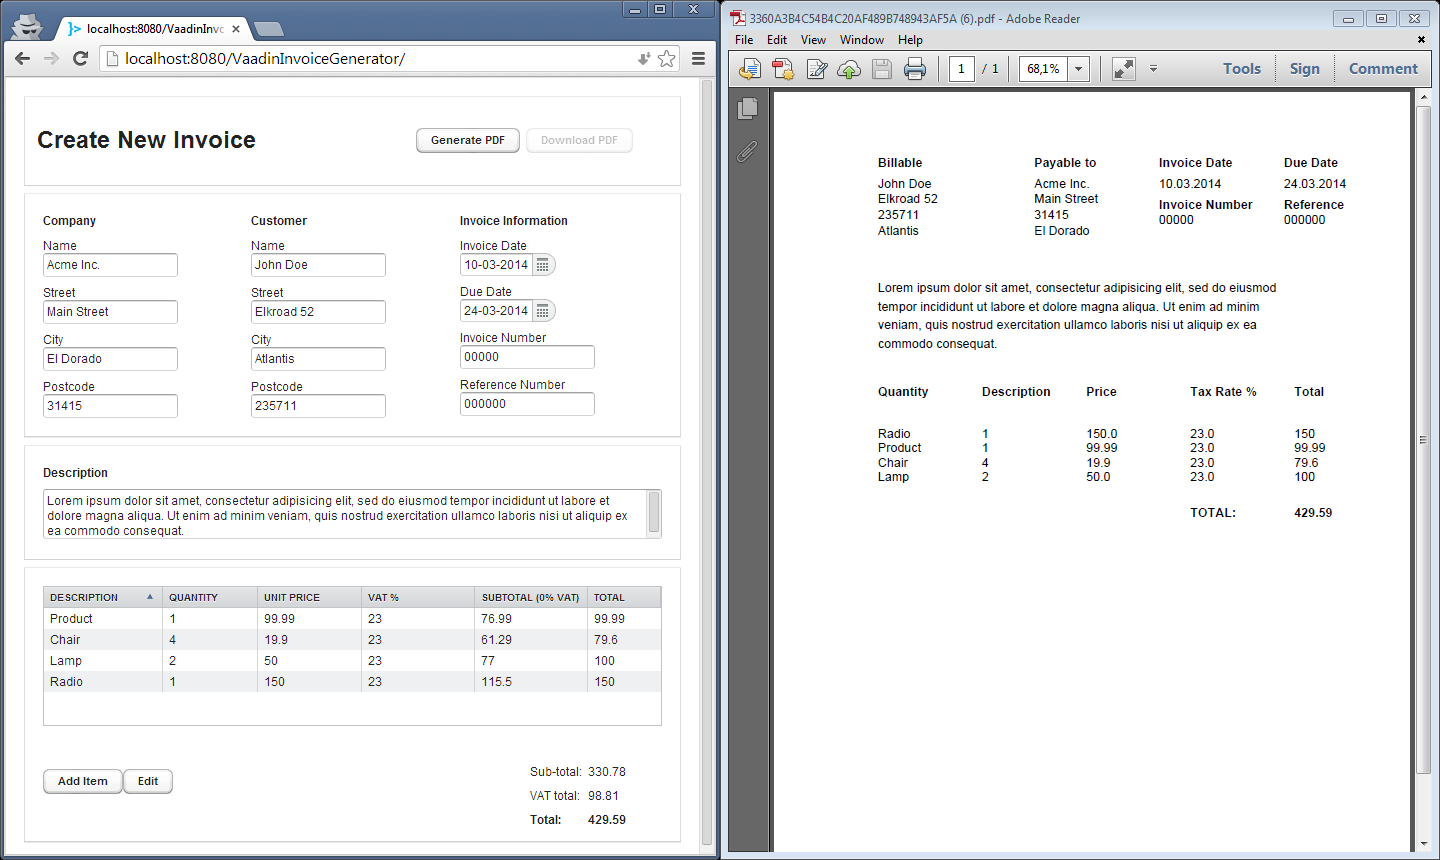
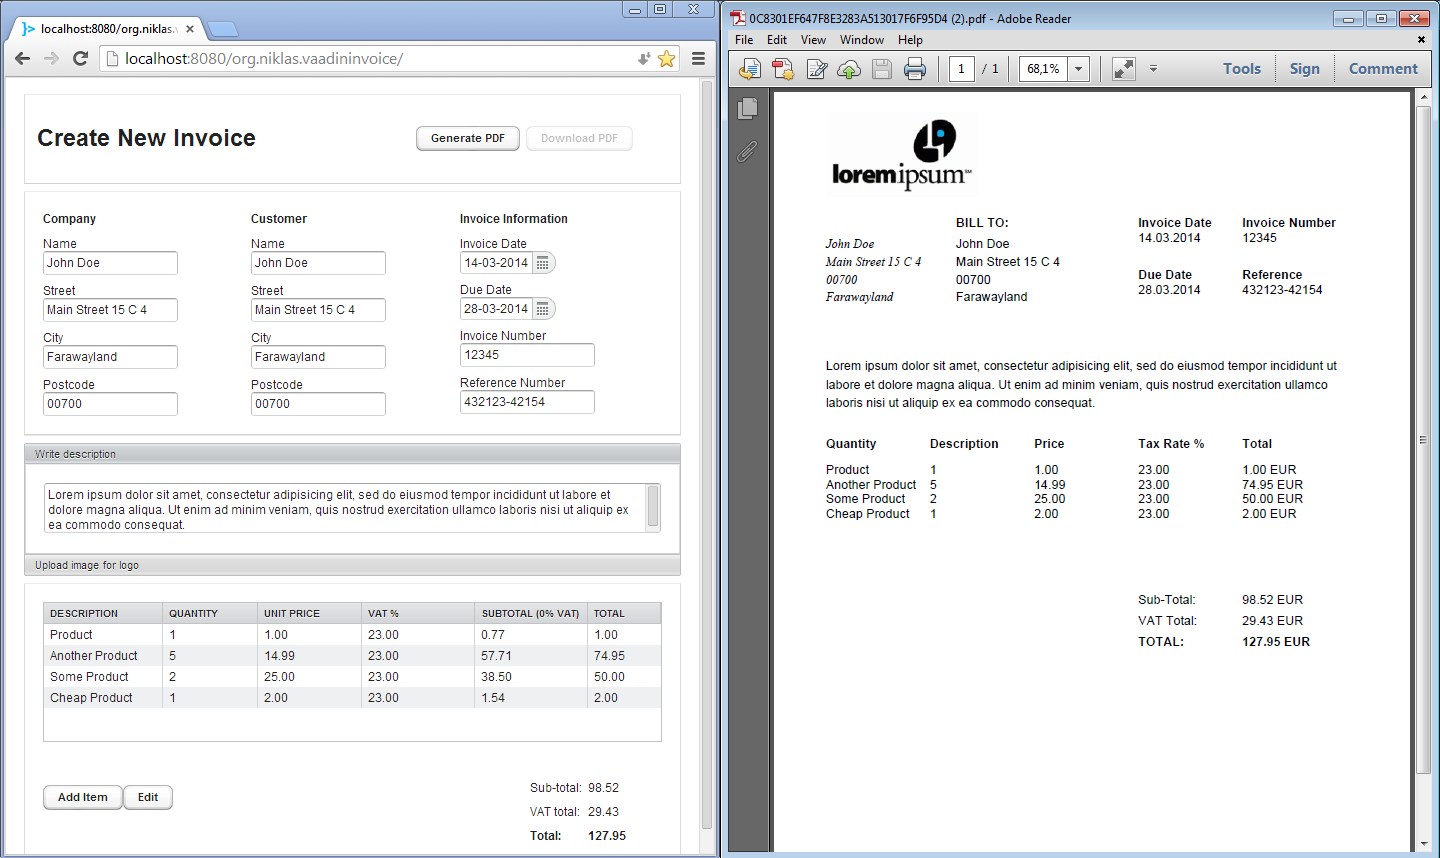
Updated pdf impl and screenshot.

diff --git a/VaadinInvoiceGenerator/src/main/java/org/niklas/vaadininvoice/invoice2pdf/Invoice2PdfBoxImpl.java b/VaadinInvoiceGenerator/src/main/java/org/niklas/vaadininvoice/invoice2pdf/Invoice2PdfBoxImpl.java
@@ -142,19 +142,22 @@ public class Invoice2PdfBoxImpl implements Invoice2Pdf{
 		int i = 0;
 		for (; i < invoice.getRows().size() ; i++) {
 			InvoiceRow row = invoice.getRows().get(i);
-			y = y - 25 - (14*i);
-			writeText(x, y, row.getDescription(), contentStream);
-			writeText(x+100, y, Integer.toString(row.getQuantity()), contentStream);
-			writeText(x+200, y, row.getPrice().toString(), contentStream);
-			writeText(x+300, y, row.getTaxRate().toString(), contentStream);
-			writeText(x+400, y, row.getTotalToString(), contentStream);
+			int tempY = y - 25 - (14*i);
+			writeText(x, tempY, row.getDescription(), contentStream);
+			writeText(x+100, tempY, Integer.toString(row.getQuantity()), contentStream);
+			writeText(x+200, tempY, row.getPrice().toString(), contentStream);
+			writeText(x+300, tempY, row.getTaxRate().toString(), contentStream);
+			writeText(x+400, tempY, row.getTotal().toString()+" EUR", contentStream);
 		}
-		writeText(x+300, y - 50 - (14*i), "Sub-Total: ", contentStream);
-		writeText(x+400, y - 50 - (14*i), invoice.getSubTotal().toString()+" EUR", contentStream);
-		writeText(x+300, y - 50 - (14*i--), "VAT Total: ", contentStream);
-		writeText(x+400, y - 50 - (14*i), invoice.getVatTotal().toString()+" EUR", contentStream);
-		writeBoldText(x+300, y - 50 - (14*i--), "TOTAL: ", contentStream);
-		writeBoldText(x+400, y - 50 - (14*i), invoice.getTotal().toString()+" EUR", contentStream);
+		i++;
+		writeText(x+300, y - 50 - (20*i), "Sub-Total: ", contentStream);
+		writeText(x+400, y - 50 - (20*i), invoice.getSubTotal().toString()+" EUR", contentStream);
+		i++;
+		writeText(x+300, y - 50 - (20*i), "VAT Total: ", contentStream);
+		writeText(x+400, y - 50 - (20*i), invoice.getVatTotal().toString()+" EUR", contentStream);
+		i++;
+		writeBoldText(x+300, y - 50 - (20*i), "TOTAL: ", contentStream);
+		writeBoldText(x+400, y - 50 - (20*i), invoice.getTotal().toString()+" EUR", contentStream);
 		
 		return page;
 	}
@@ -216,8 +219,8 @@ public class Invoice2PdfBoxImpl implements Invoice2Pdf{
 	}
 	
 	private Dimension getImageDimensions(PDJpeg img) {
-		float maxWidth = 150;
-		float maxHeight = 100;
+		float maxWidth = 200;
+		float maxHeight = 80;
 		float width = img.getWidth();
 		float height = img.getHeight();
 		System.out.println("Image of size "+width+"x"+height+"px was resized to:");

diff --git a/VaadinInvoiceGenerator/src/main/java/org/niklas/vaadininvoice/gui/DescriptionPanel.java b/VaadinInvoiceGenerator/src/main/java/org/niklas/vaadininvoice/gui/DescriptionPanel.java
@@ -15,7 +15,7 @@ import com.vaadin.ui.VerticalLayout;
 public class DescriptionPanel extends Panel {
 	private BeanItem<Invoice> invoiceBean;
 	private FieldGroup descriptionFieldGroup;
-	private Label descriptionLabel;
+//	private Label descriptionLabel;
 	private TextArea descriptionTextArea;
 	
 	public DescriptionPanel(BeanItem<Invoice> invoiceBean){
@@ -38,16 +38,16 @@ public class DescriptionPanel extends Panel {
 	}
 
 	private void initComponents() {
-		descriptionLabel = new Label("<b>Description</b>", ContentMode.HTML);
+//		descriptionLabel = new Label("<b>Description</b>", ContentMode.HTML);
 		descriptionTextArea = new TextArea();
 	}
 
 	private void setLayout() {
-		setHeight(115, Unit.PIXELS);
+		setHeight(90, Unit.PIXELS);
 		descriptionTextArea.setSizeFull();
 		descriptionTextArea.setHeight(50, Unit.PIXELS);
 		VerticalLayout layout = new VerticalLayout();
-		layout.addComponent(descriptionLabel);
+//		layout.addComponent(descriptionLabel);
 		layout.addComponent(descriptionTextArea);
 		layout.setSpacing(true);
 		layout.setMargin(true);

diff --git a/VaadinInvoiceGenerator/src/main/java/org/niklas/vaadininvoice/model/InvoiceRow.java b/VaadinInvoiceGenerator/src/main/java/org/niklas/vaadininvoice/model/InvoiceRow.java
@@ -39,10 +39,6 @@ public class InvoiceRow {
 	public BigDecimal getPrice() {
 		return price.setScale(2, RoundingMode.HALF_EVEN);
 	}
-	
-	public String getTotalToString(){
-		return priceFormat.format(getTotal());
-	}
 
 	public void setQuantity(int quantity) {
 		this.quantity = quantity;
